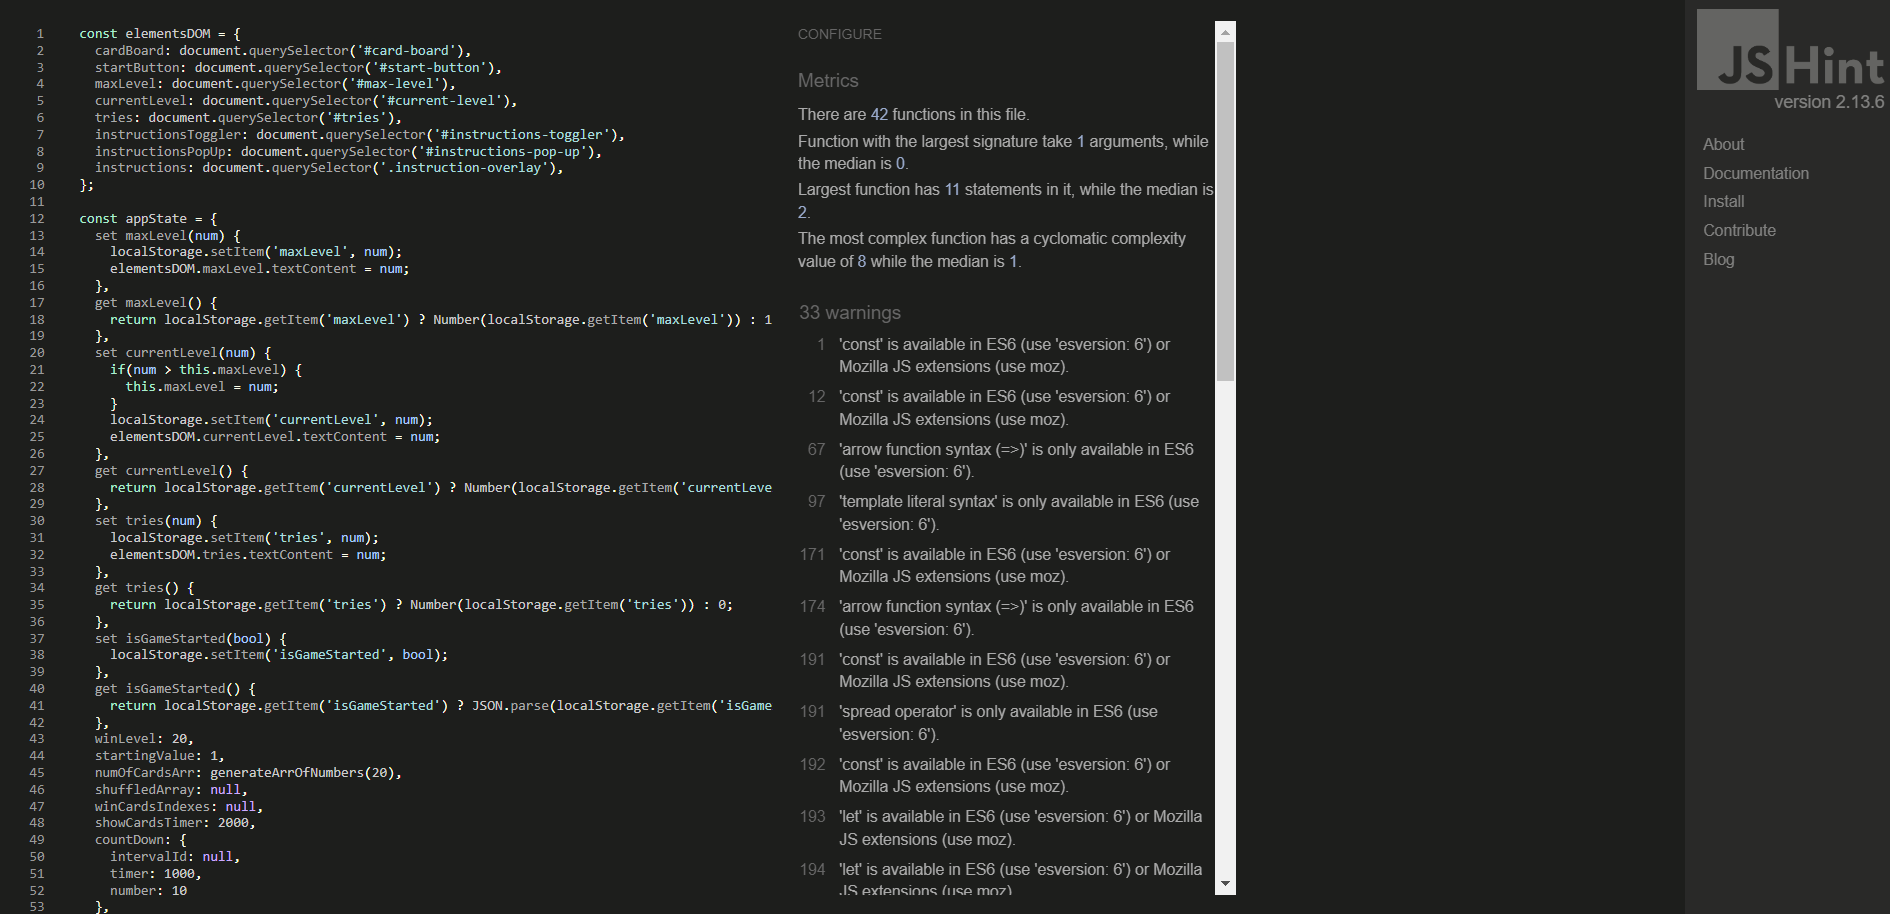
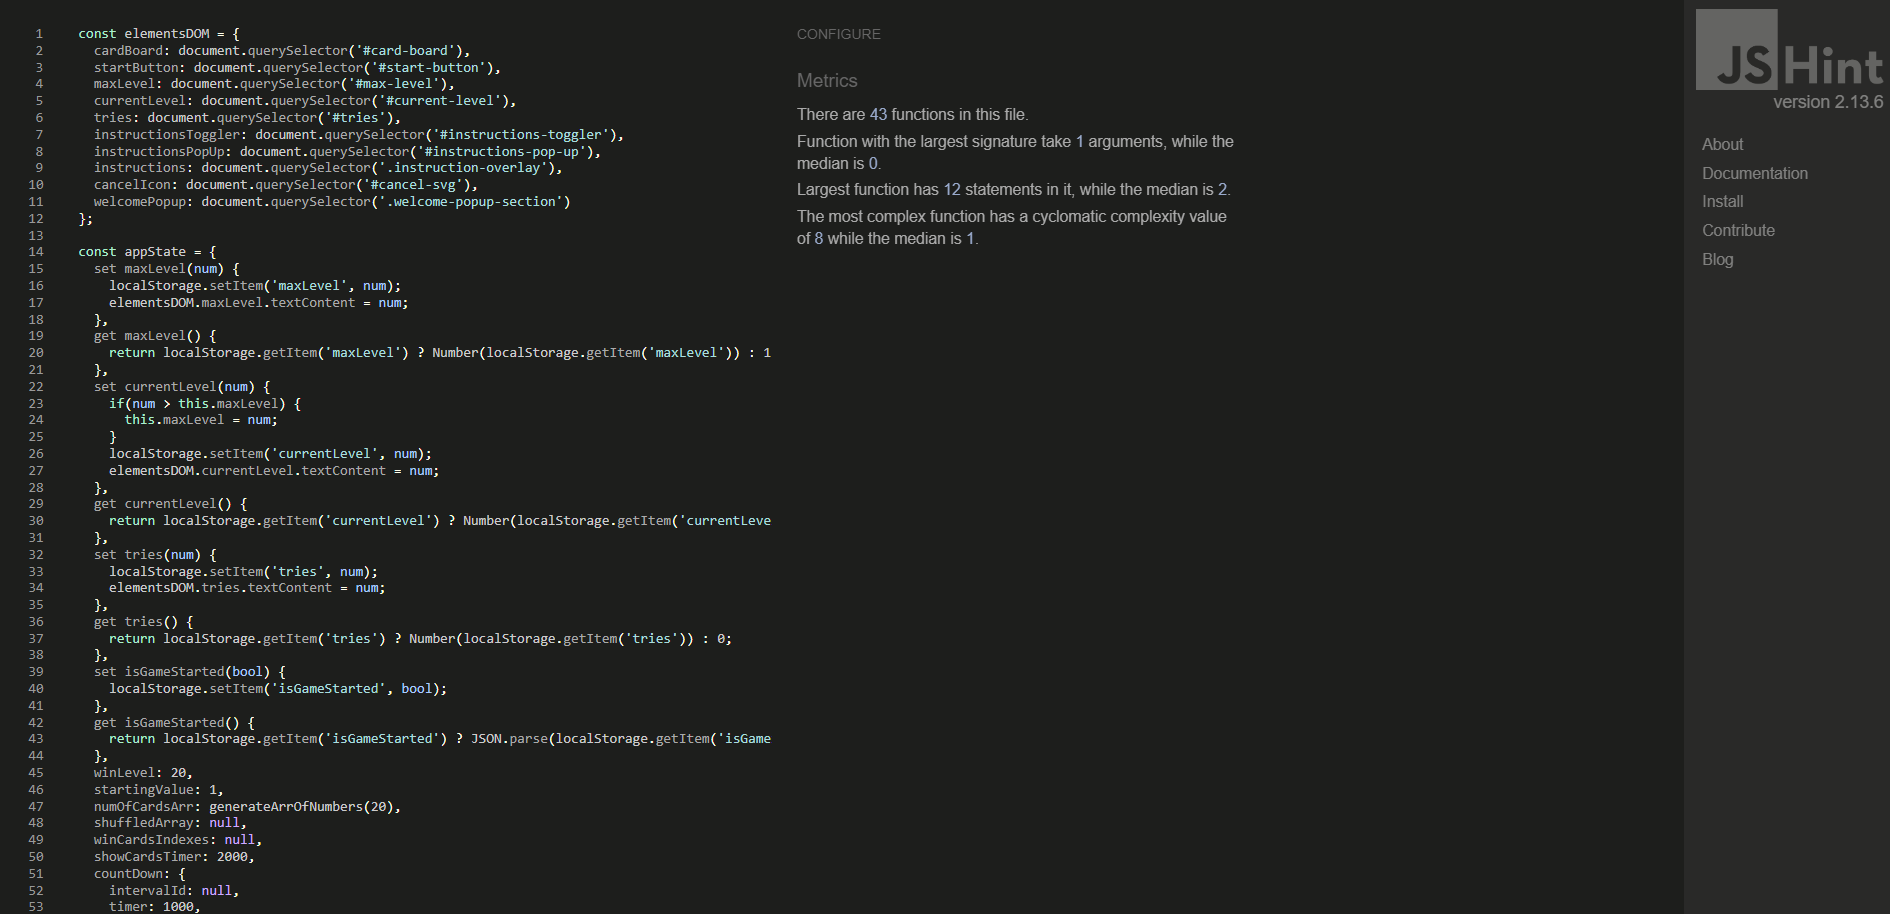
updates JSHint JS Validator (README)

diff --git a/assets/js/index.js b/assets/js/index.js
@@ -92,7 +92,7 @@ function displayBoard() {
     displayContinueBoard();
   } else {
     displayCardsOnBoard();
-    showWelcomePopUp()
+    showWelcomePopUp();
   }
 }
 
@@ -244,7 +244,8 @@ function generateCardsHTML(arrNumbers) {
 function getArrOfWinIndexes() {
   const arrayOfIndexes = [];
   for (let index = 0; index < appState.currentLevel; index++) {
-    arrayOfIndexes.push(appState.shuffledArray.findIndex(elem => elem === index + 1));
+    const arrIndex = appState.shuffledArray.findIndex(elem => elem === index + 1);
+    arrayOfIndexes.push(arrIndex);
   }
   return arrayOfIndexes;
 }

diff --git a/README.md b/README.md
@@ -167,7 +167,7 @@ The deliberate design choice of keeping the 'New Game' button relatively small s
 <br>
 
 - __JSHint JavaScript Validator__
-  - The JavaScript file has been validated using the JSHint JavaScript Validator, and no errors were detected. However, several warnings were identified, primarily related to the usage of ES6 features, such as arrow functions, let, and const.
+  - The JavaScript file has been validated using the JSHint JavaScript Validator, and no errors were detected.
 
 <details><summary>Validated code image (JS Validator)</summary>
 
